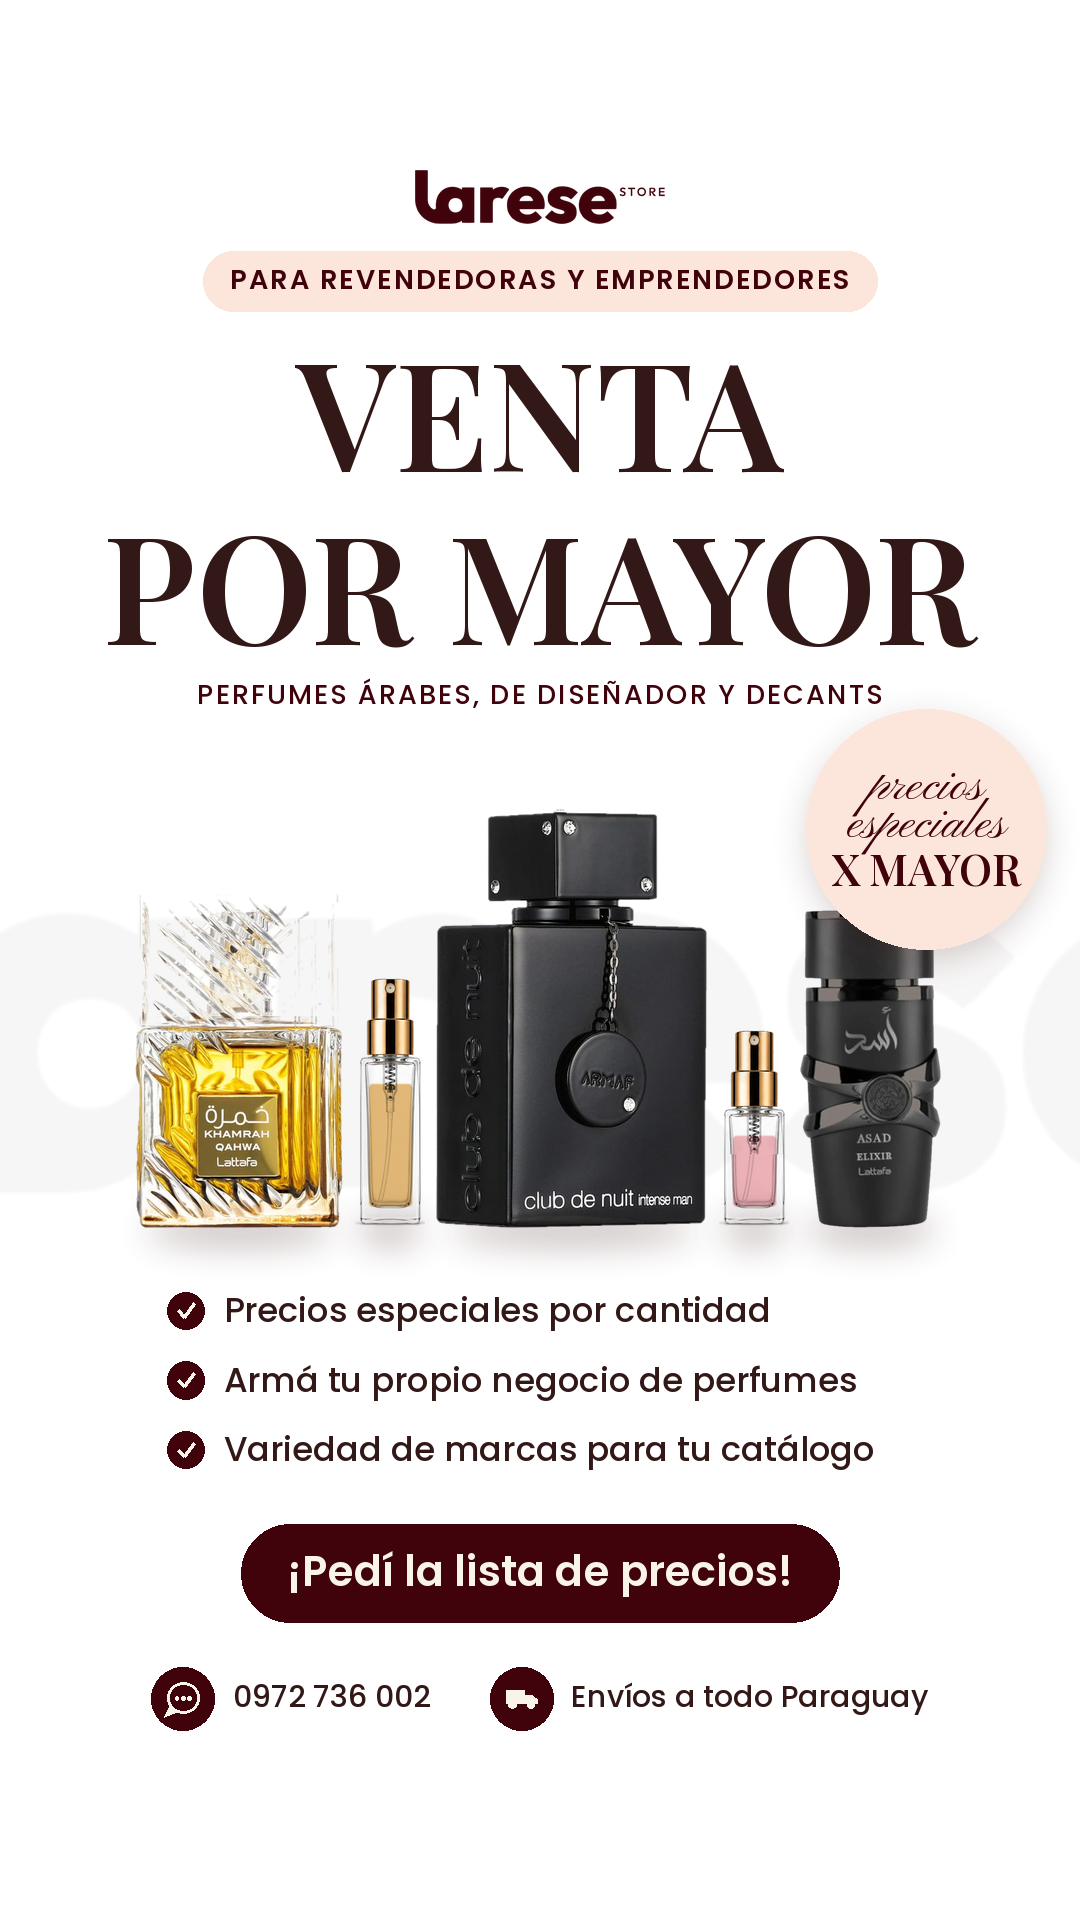
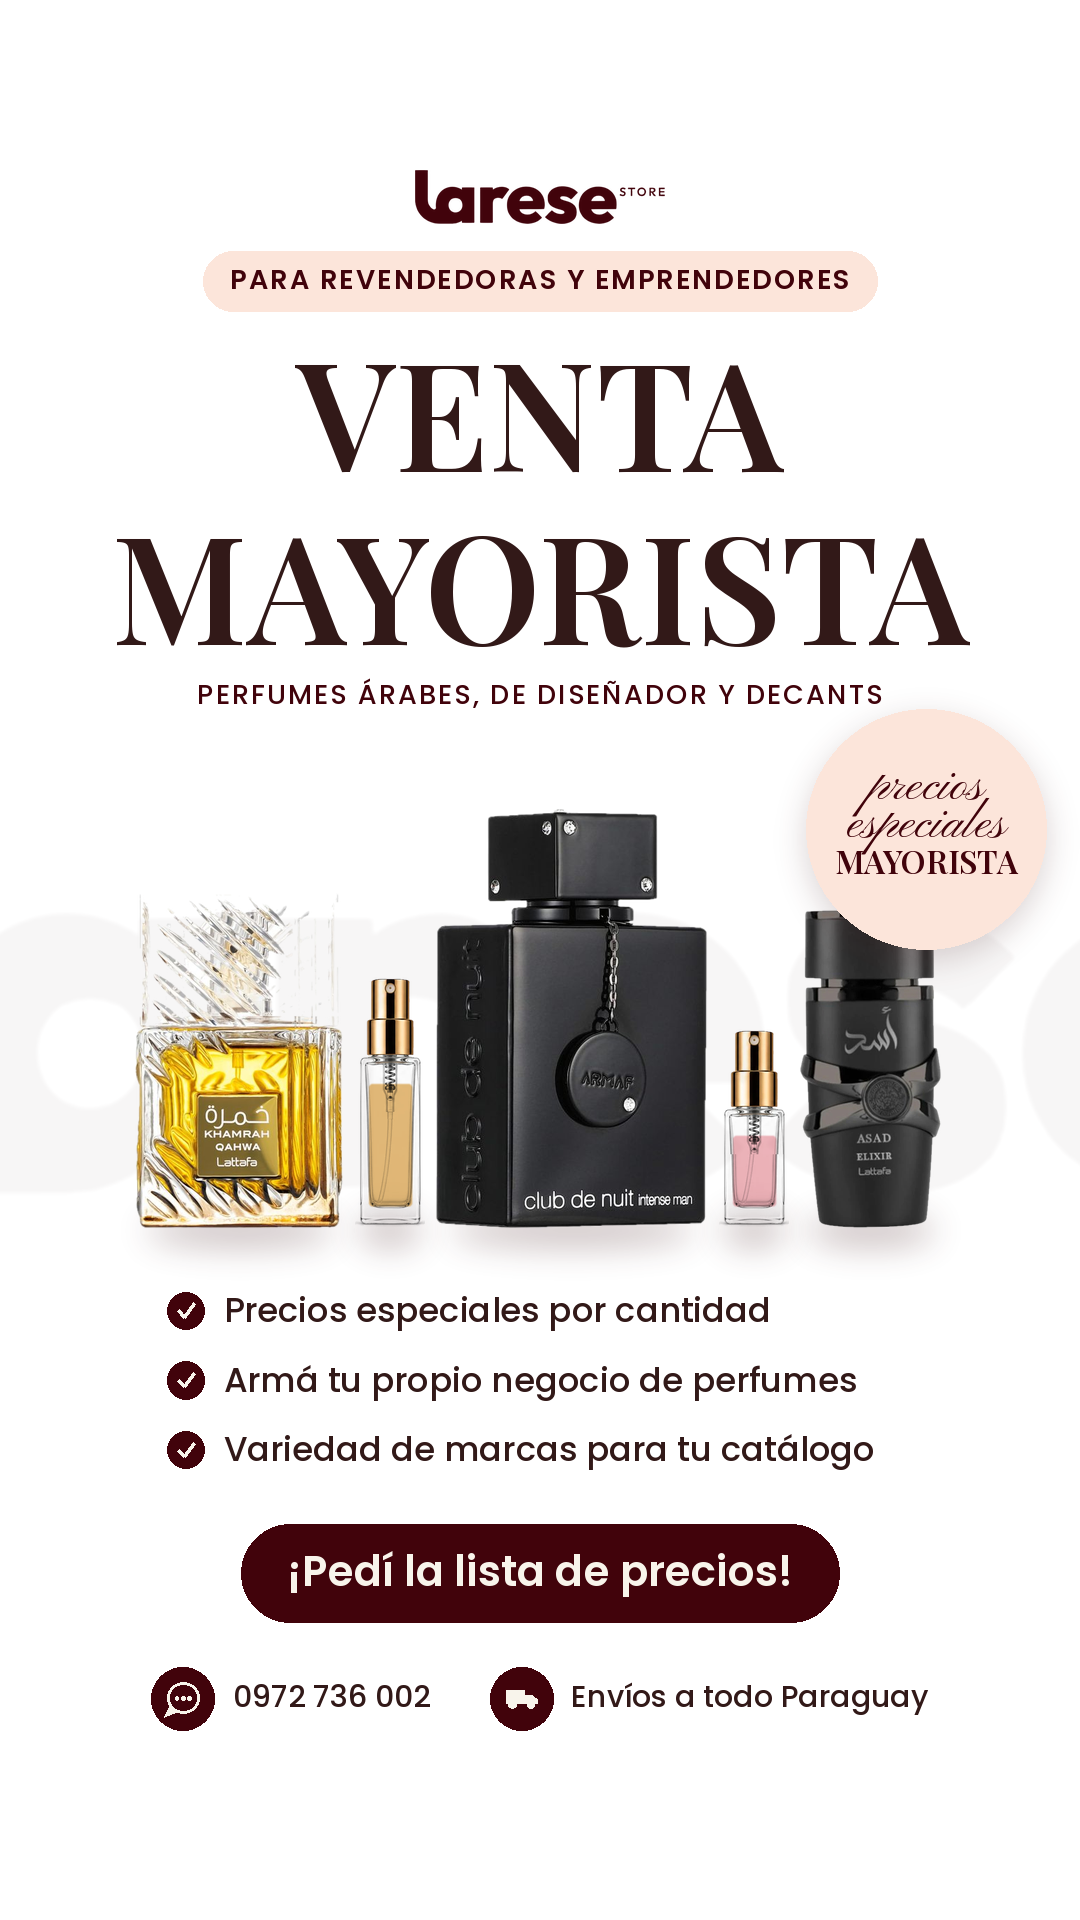
Wholesale ad: title 'VENTA MAYORISTA', seal 'precios especiales MAYORISTA'
Claude-Session: https://claude.ai/code/session_01DnzkNLcZedFpQcyR6bg5VG

Changed region(s): [[0.0917, 0.2812, 0.8861, 0.3438], [0.7639, 0.4375, 0.9472, 0.4688]]

diff --git a/anuncio-mayorista/crear.py b/anuncio-mayorista/crear.py
@@ -29,9 +29,9 @@ MARFIL = (0xFC, 0xE5, 0xDA)
 DORADO = (0x99, 0x79, 0x57)
 
 PILDORA = "PARA REVENDEDORAS Y EMPRENDEDORES"
-TITULO = ["VENTA", "POR MAYOR"]
+TITULO = ["VENTA", "MAYORISTA"]
 SUBTITULO = "PERFUMES ÁRABES, DE DISEÑADOR Y DECANTS"
-SELLO = ("precios", "especiales", "X MAYOR")
+SELLO = ("precios", "especiales", "MAYORISTA")
 BENEFICIOS = ["Precios especiales por cantidad", "Armá tu propio negocio de perfumes",
               "Variedad de marcas para tu catálogo"]
 CTA = "¡Pedí la lista de precios!"
@@ -97,7 +97,10 @@ def sello(img, cx, cy, r):
     d = ImageDraw.Draw(img)
     d.ellipse((cx - r, cy - r, cx + r, cy + r), fill=MARFIL)
     f1 = cp.cursiva(r * 0.42)
-    f2 = cp.fuente(r * 0.36, b"ExtraBold")
+    tam2 = r * 0.36
+    while cp.ancho_txt(ImageDraw.Draw(img), SELLO[2], cp.fuente(tam2, b"ExtraBold")) > r * 1.55:
+        tam2 -= 1
+    f2 = cp.fuente(tam2, b"ExtraBold")
     cp.txt(d, cx, cy - r * 0.62, SELLO[0], f1, cp.BORDO)
     cp.txt(d, cx, cy - r * 0.30, SELLO[1], f1, cp.BORDO)
     cp.txt(d, cx, cy + r * 0.08, SELLO[2], f2, cp.BORDO)
